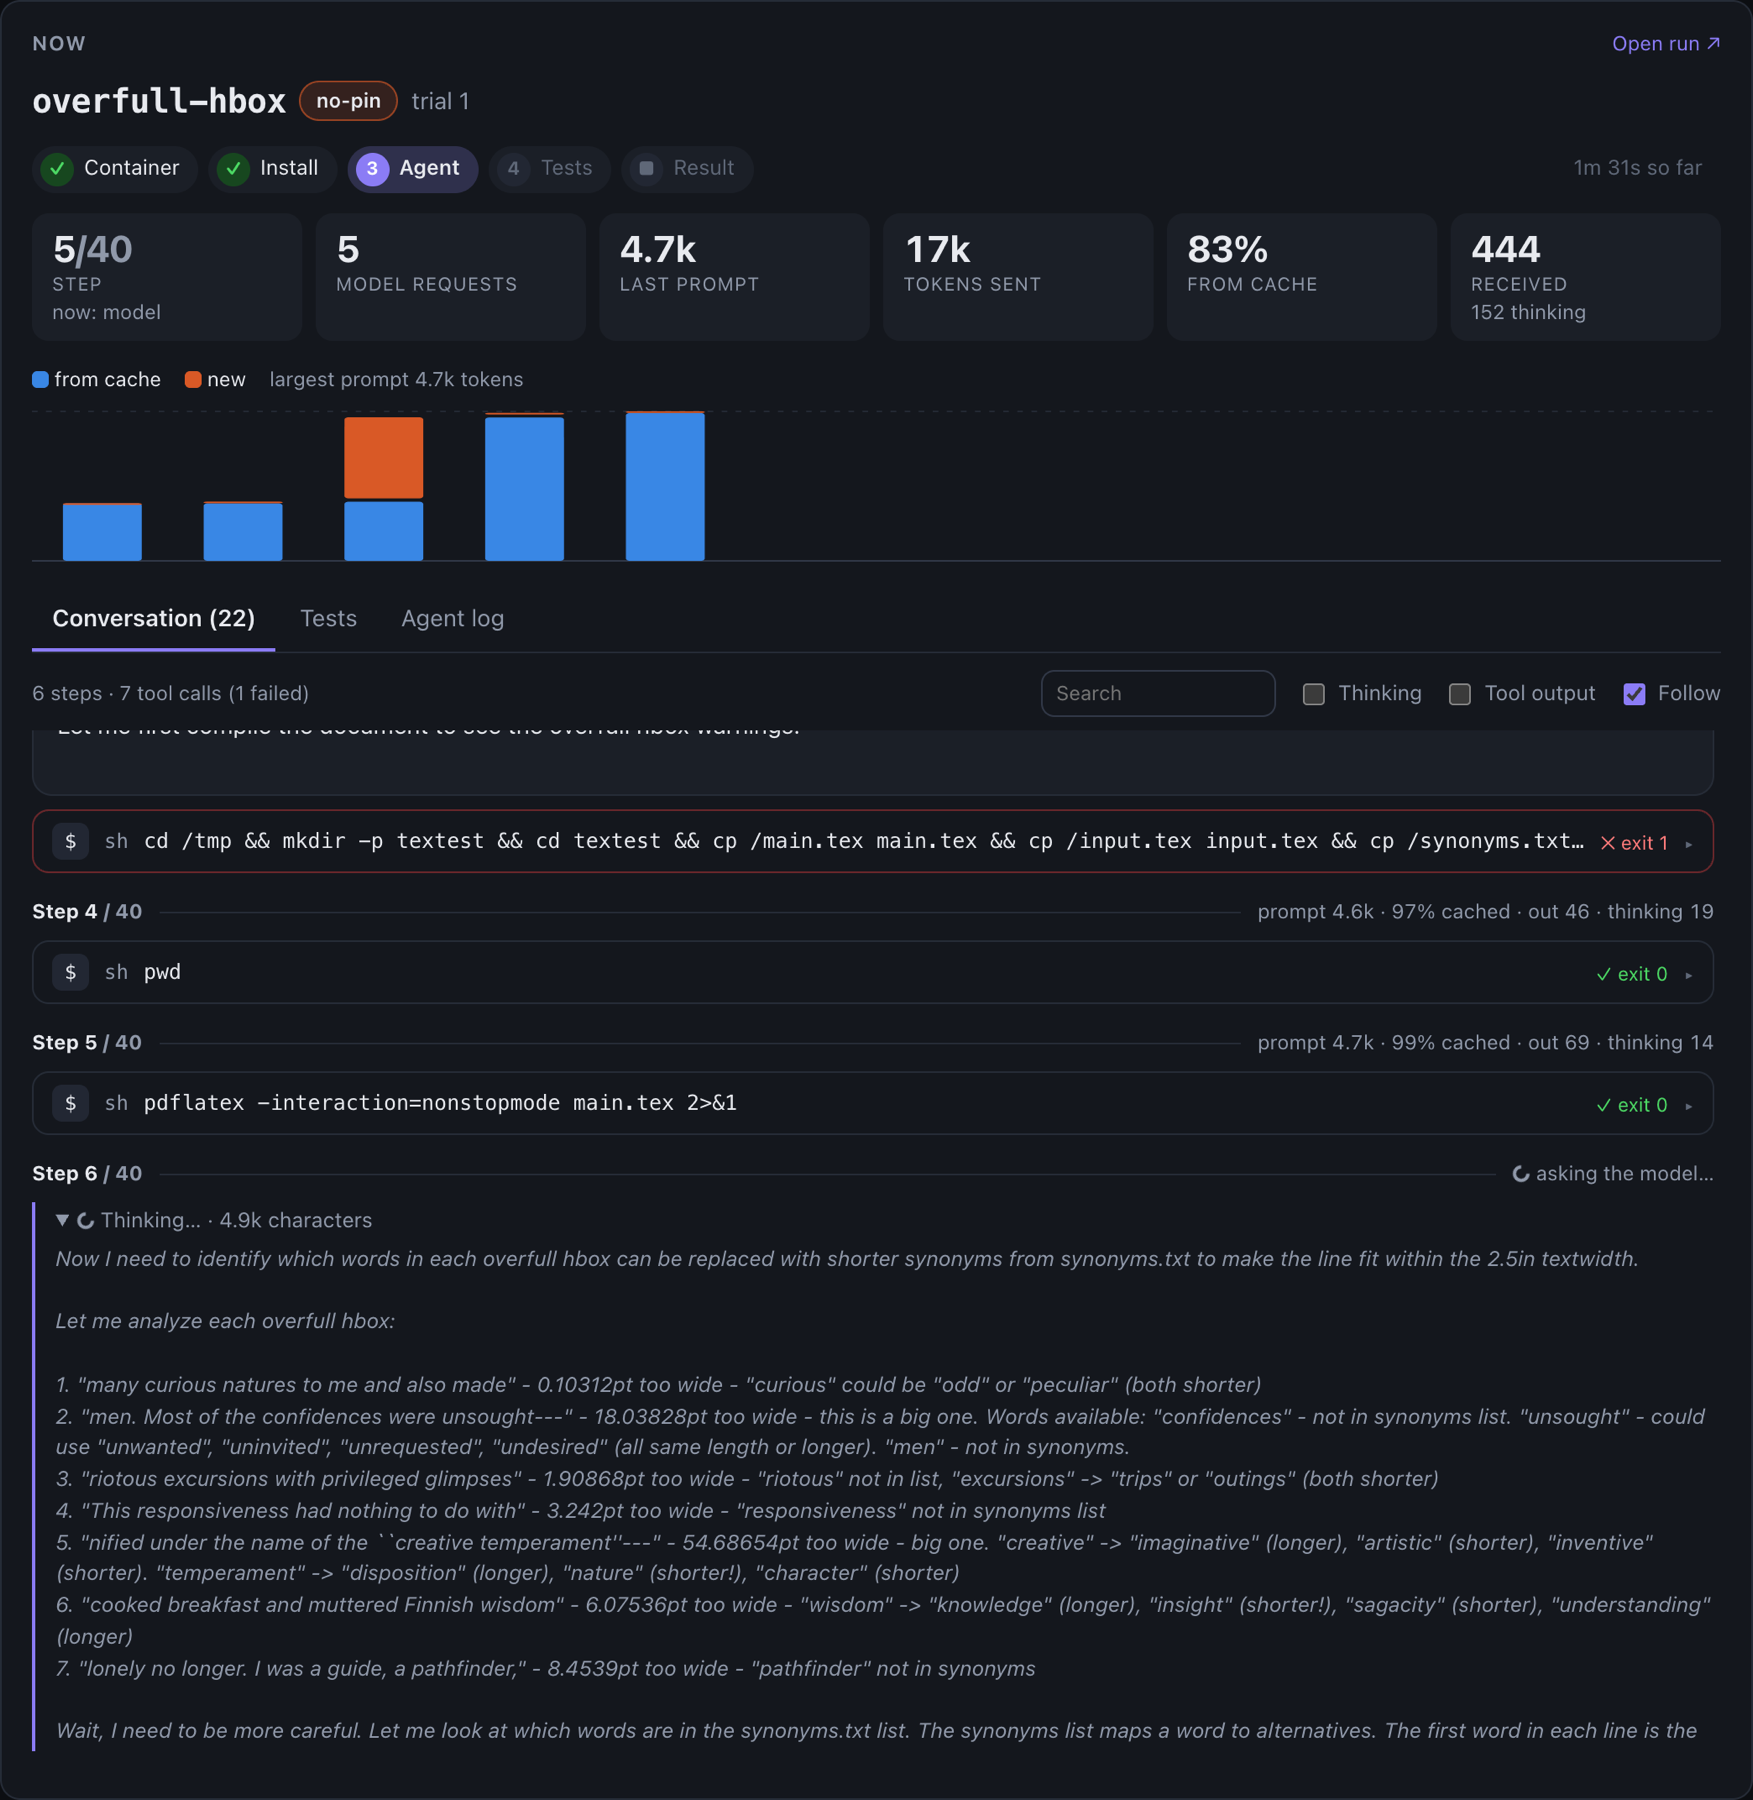
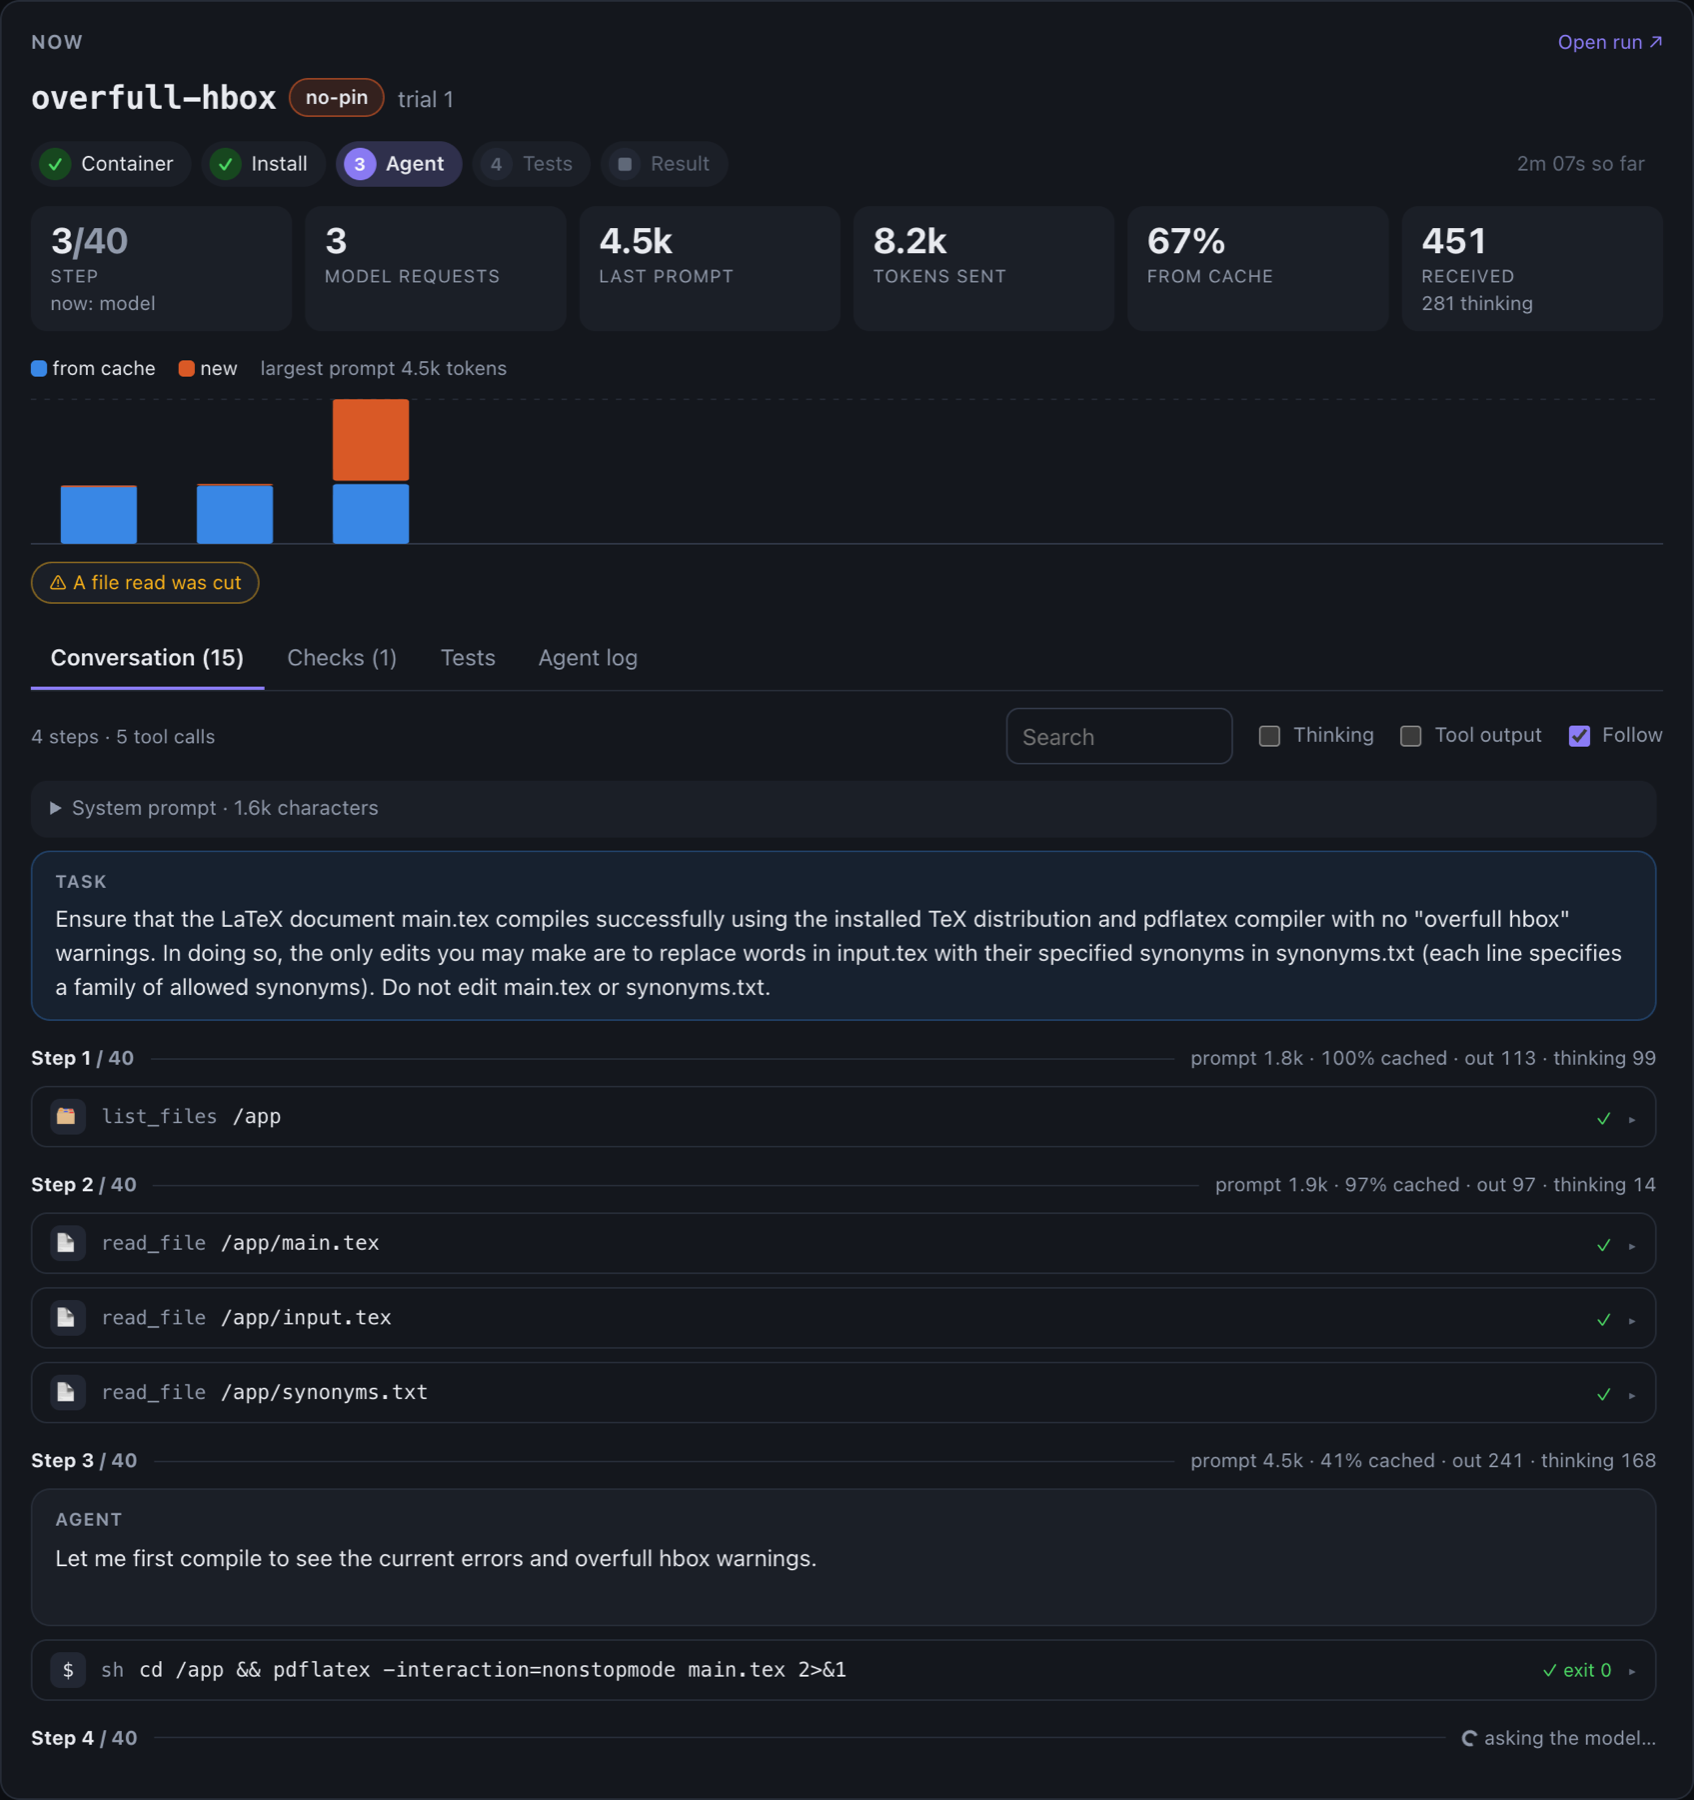
README screenshots: campaign, setup, campaigns, builds, form, harness checks, live run, run setup; a build's note does not repeat its version; a new option in a variant shows as its value

diff --git a/ui/src/Views.jsx b/ui/src/Views.jsx
@@ -19,7 +19,9 @@ const useJson = (url, every = 0, dep = null) => {
 };
 
 export const BuildChip = ({ b }) => (!b ? <span className="muted">no build recorded</span> : b.missing ? <span className="bchip bad" title="not in the studio">{b.id} (missing)</span> : b.package ? <span className="bchip" title={b.package}>package file</span>
-  : <span className="bchip" title={`${b.id}${b.commit ? `\ncommit ${b.commit}` : ""}${b.note ? `\n${b.note}` : ""}`}>v{b.version}{b.commit ? <span className="muted"> · {short(b.commit)}</span> : null}{b.note ? <span className="muted"> · {b.note}</span> : null}</span>);
+  : <span className="bchip" title={`${b.id}${b.commit ? `\ncommit ${b.commit}` : ""}${b.note ? `\n${b.note}` : ""}`}>v{b.version}{b.commit ? <span className="muted"> · {short(b.commit)}</span> : null}{noteOf(b) ? <span className="muted"> · {noteOf(b)}</span> : null}</span>);
+/** A build's note without a repeat of its version ("v0.7.2 release tarball" on v0.7.2 reads "release tarball"). */
+const noteOf = (b) => (b.note ?? "").replace(new RegExp(`^v?${String(b.version).replace(/\./g, "\\.")}\\s*`), "");
 
 /** Every campaign: why it runs, which version, which model where, how far, how well. */
 export function CampaignsView({ open, edit }) {
@@ -232,7 +234,7 @@ export function SetupCard({ s, variants, edit, name }) {
           <thead><tr><th>Variant</th><th>Version</th><th>Changes from {s.variants[0]?.name}</th><th>Note</th></tr></thead>
           <tbody>{s.variants.map((v, i) => (
             <tr key={v.name}><td><span className="dotc" style={{ background: variantColor(variants, v.name) }} /> <b>{v.name}</b></td><td><BuildChip b={v.build} /></td>
-              <td>{i === 0 ? <span className="muted">baseline</span> : v.changes.length ? v.changes.map((c) => <span key={c.option} className="kvchip"><span className="muted">{c.option}</span> {c.from ?? "–"} → <b>{c.to ?? "(removed)"}</b></span>) : <span className="muted">same as the baseline</span>}</td>
+              <td>{i === 0 ? <span className="muted">baseline</span> : v.changes.length ? v.changes.map((c) => <span key={c.option} className="kvchip"><span className="muted">{c.option}</span> {c.from === null ? <b>{c.to}</b> : <>{c.from} → <b>{c.to ?? "(removed)"}</b></>}</span>) : <span className="muted">same as the baseline</span>}</td>
               <td className="muted small">{v.note}</td></tr>
           ))}</tbody>
         </table></div>
